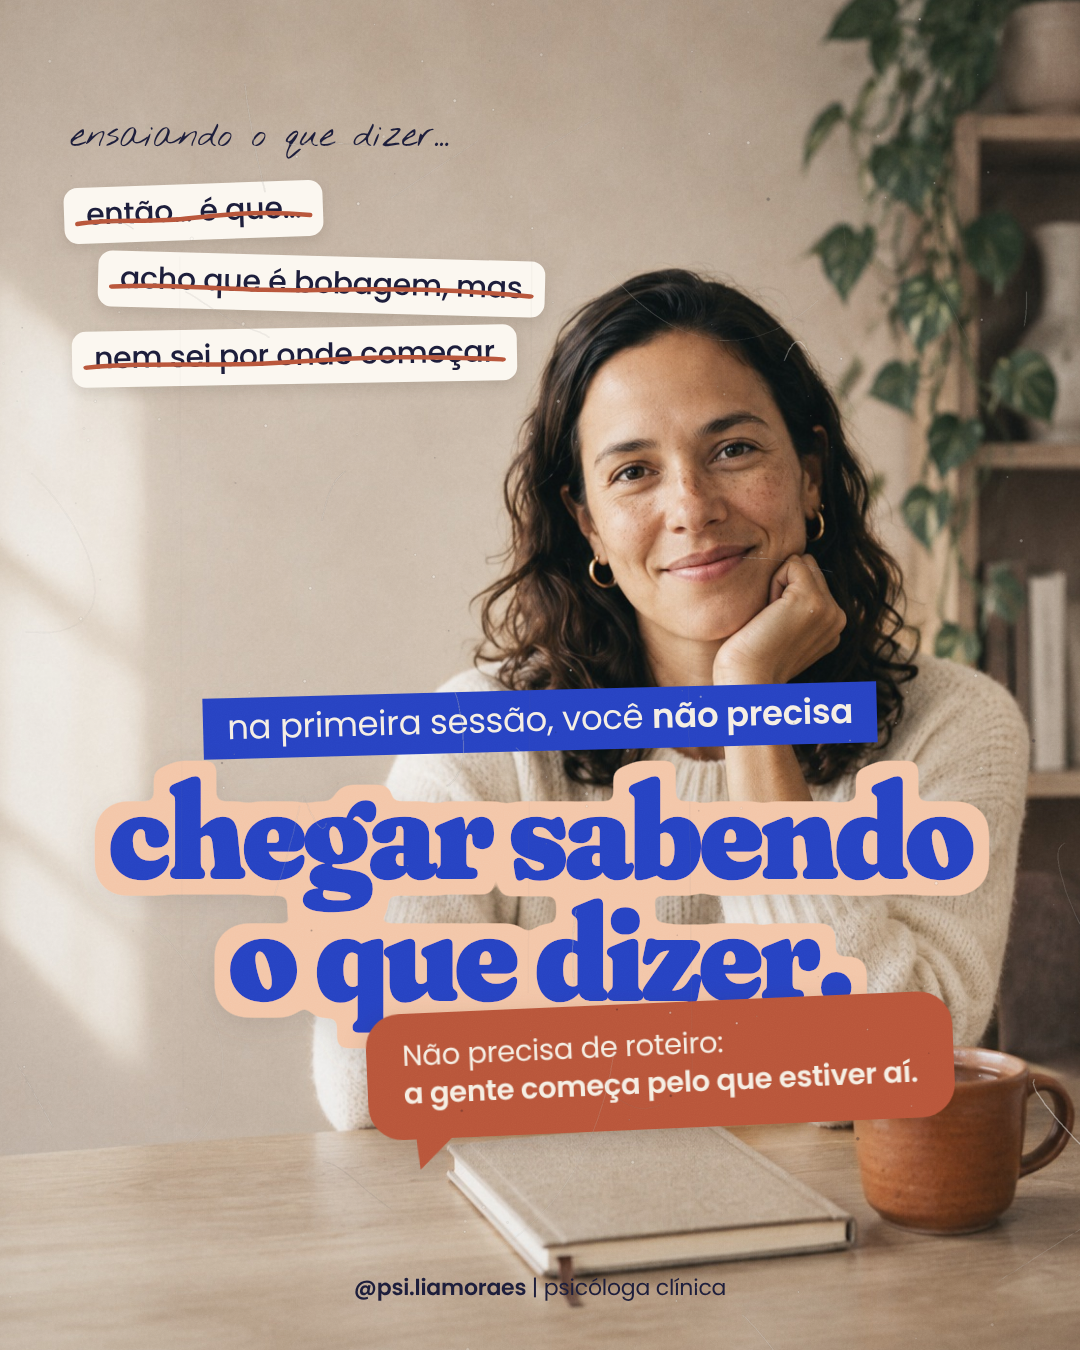
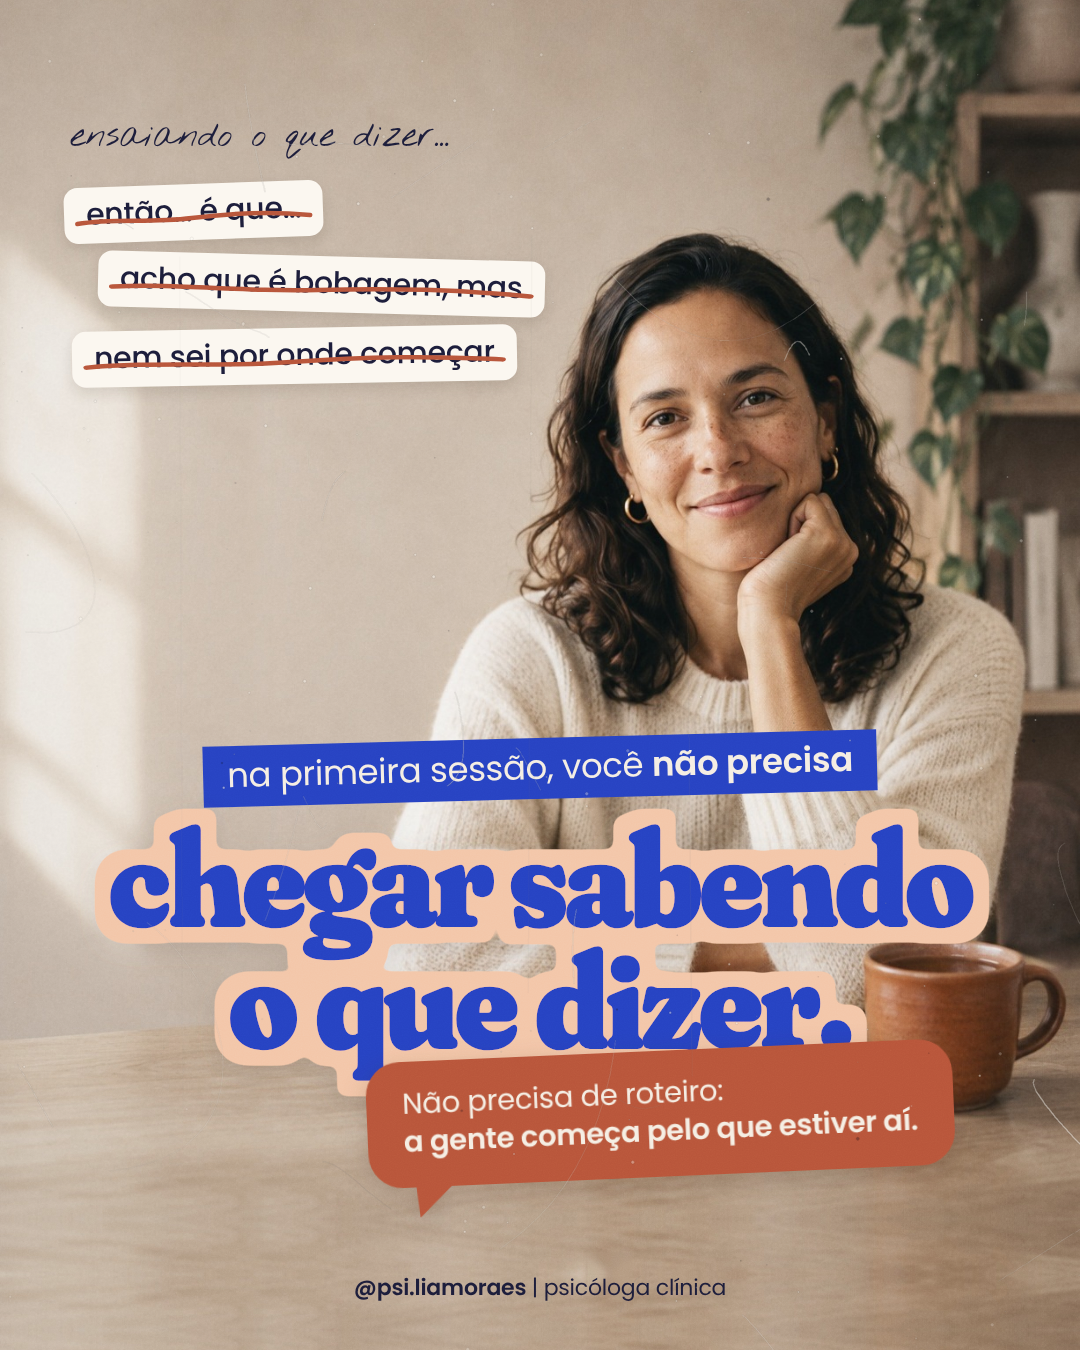
Lia Moraes: post 5 com menos zoom na foto (mesa e parede estendidas) e bloco de texto mais baixo
Claude-Session: https://claude.ai/code/session_01CmCiK8Gv7bd1khyaxwEQLc

diff --git a/psicologa-lia-moraes/projeto/posts/posts-v5.html b/psicologa-lia-moraes/projeto/posts/posts-v5.html
@@ -217,14 +217,14 @@ body{background:#777;padding:20px;display:flex;gap:20px;flex-wrap:wrap}
 
 <!-- N5 · PRIMEIRA SESSÃO (rascunhos riscados + título adesivo) -->
 <div class="art" id="p5" style="color:#1C1D3A;background:#d8cbbd">
-  <img class="abs" src="../ia/filme-lia/mesa-a.jpg" style="left:-10px;top:-10px;width:1100px">
+  <img class="abs" src="../ia/filme-lia/mesa-a-ampla.jpg" style="left:0;top:-20px;width:1080px">
   <div class="abs" style="left:64px;top:118px;width:470px;z-index:4">
     <div class="mao" style="font-size:36px;line-height:1;color:#1C1D3A;margin-left:6px">ensaiando o que dizer...</div>
     <div style="margin-top:30px"><span class="rasc" style="transform:rotate(-2deg)">então… é que…</span></div>
     <div style="margin-top:16px;margin-left:34px"><span class="rasc" style="transform:rotate(1.5deg)">acho que é bobagem, mas</span></div>
     <div style="margin-top:16px;margin-left:8px"><span class="rasc" style="transform:rotate(-1deg)">nem sei por onde começar</span></div>
   </div>
-  <div class="abs" style="left:0;right:0;top:690px;text-align:center;z-index:5">
+  <div class="abs" style="left:0;right:0;top:738px;text-align:center;z-index:5">
     <div style="display:inline-block;background:#2742C2;color:#F5EEE3;font:400 34px/1 Poppins;letter-spacing:-.01em;padding:12px 24px 15px;transform:rotate(-1.5deg)">na primeira sessão, você <b style="font-weight:600">não precisa</b></div>
     <div class="fr" style="font-size:136px;line-height:.9;color:#2742C2;margin-top:18px;filter:url(#adesivo) drop-shadow(0 8px 12px rgba(40,30,20,.18))">chegar sabendo<br>o que dizer.</div>
     <div style="display:inline-block;margin-top:-6px;transform:rotate(-2.5deg) translateX(120px);filter:drop-shadow(0 8px 12px rgba(60,25,10,.2))">

diff --git a/psicologa-lia-moraes/projeto/ia/ampliar-mesa.py b/psicologa-lia-moraes/projeto/ia/ampliar-mesa.py
@@ -1,0 +1,23 @@
+# Abre o enquadramento da foto da mesa (menos zoom no post 5).
+# Lado: insere 91 px de parede lisa entre a luz da janela e a Lia (repete a parede de x 220..310 com emenda em degradê),
+#       assim a luz da janela continua inteira e nada fica espelhado.
+# Baixo: faixa de mesa sem objetos (fitinha do caderno apagada), espelhada em sanfona para emendar sem costura.
+import numpy as np, cv2
+im = cv2.imread('ia/filme-lia/mesa-a.jpg').astype(np.float32)
+h, w = im.shape[:2]
+A, N, F = 220, 91, 44            # onde insere, quantos px, largura da emenda
+cols = []
+for n in range(w + N):
+    if n < A + N - F: cols.append(im[:, min(n, w - 1)])
+    elif n < A + N:
+        t = (n - (A + N - F)) / F; t = t * t * (3 - 2 * t)
+        cols.append(im[:, n] * (1 - t) + im[:, n - N] * t)
+    else: cols.append(im[:, n - N])
+im = np.stack(cols, axis=1)
+faixa = im[1345:1408].copy()
+m = np.zeros(faixa.shape[:2], np.uint8); m[0:24, 576 + N:628 + N] = 255
+faixa = cv2.inpaint(np.clip(faixa, 0, 255).astype(np.uint8), m, 11, cv2.INPAINT_TELEA).astype(np.float32)
+ext = np.concatenate([faixa[::-1], faixa, faixa[::-1]])[:150]
+im = np.concatenate([im, ext])
+cv2.imwrite('ia/filme-lia/mesa-a-ampla.jpg', np.clip(im, 0, 255).astype(np.uint8), [cv2.IMWRITE_JPEG_QUALITY, 94])
+print(im.shape)
